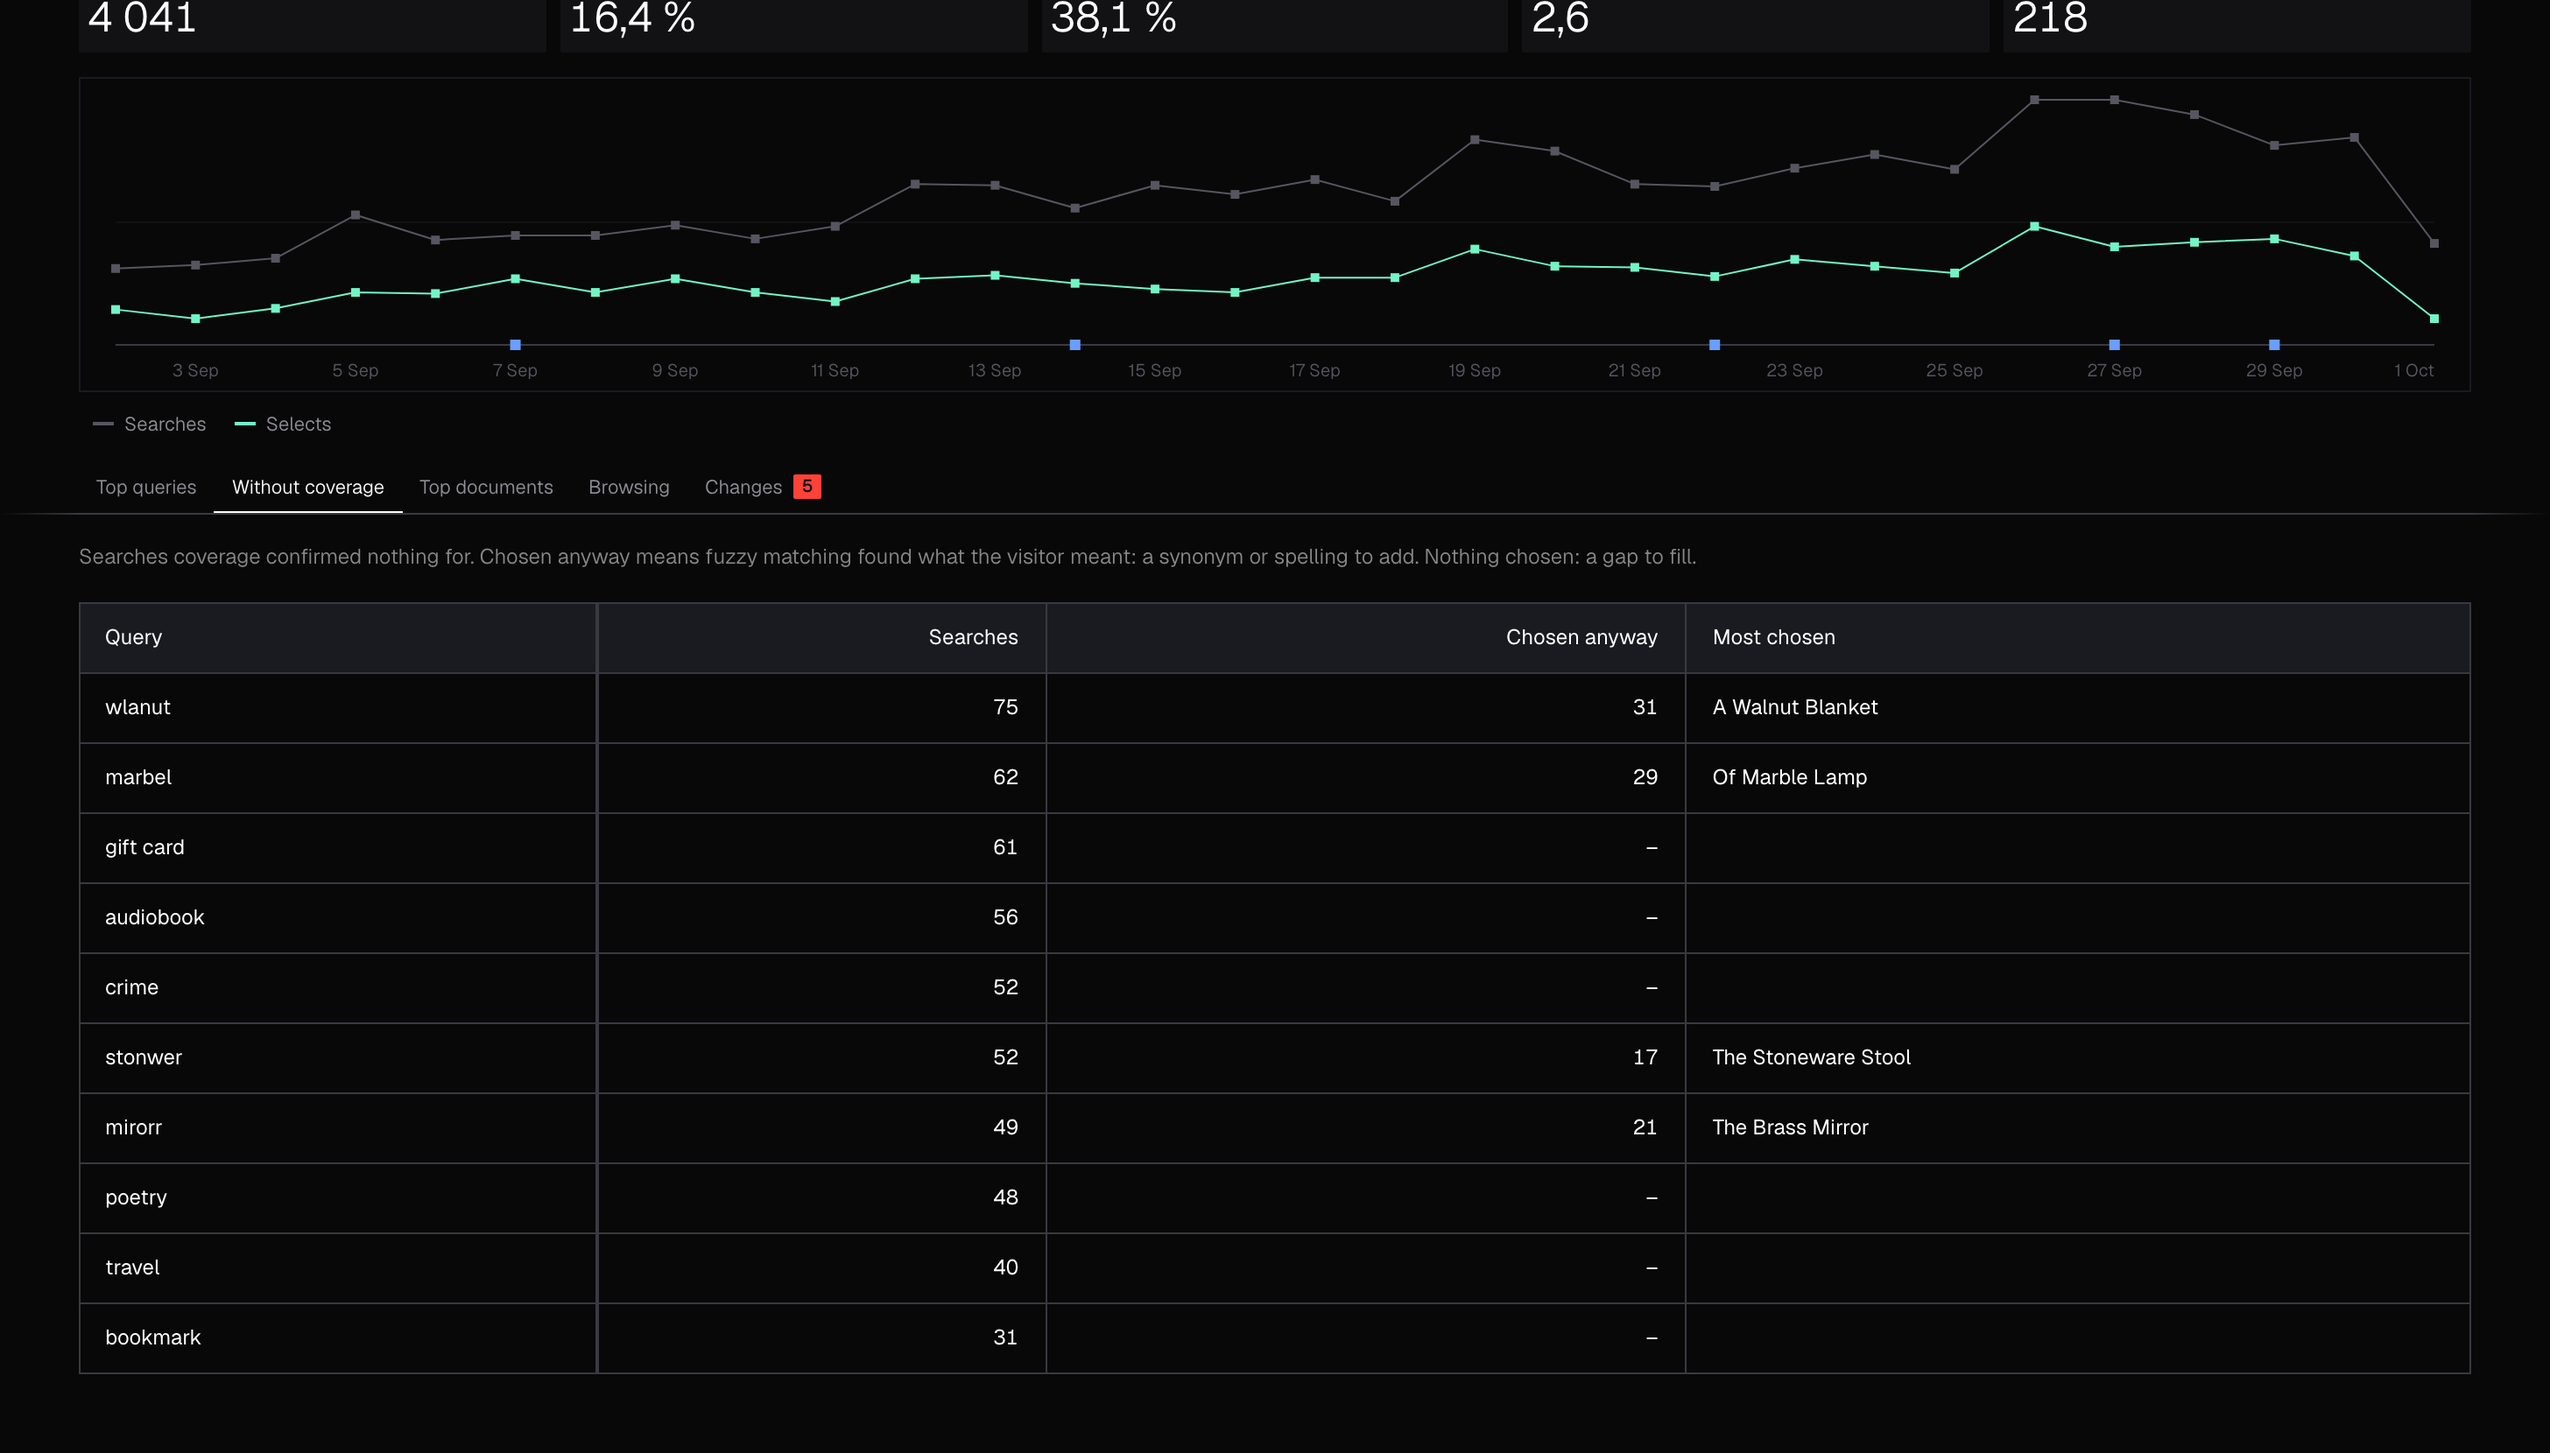
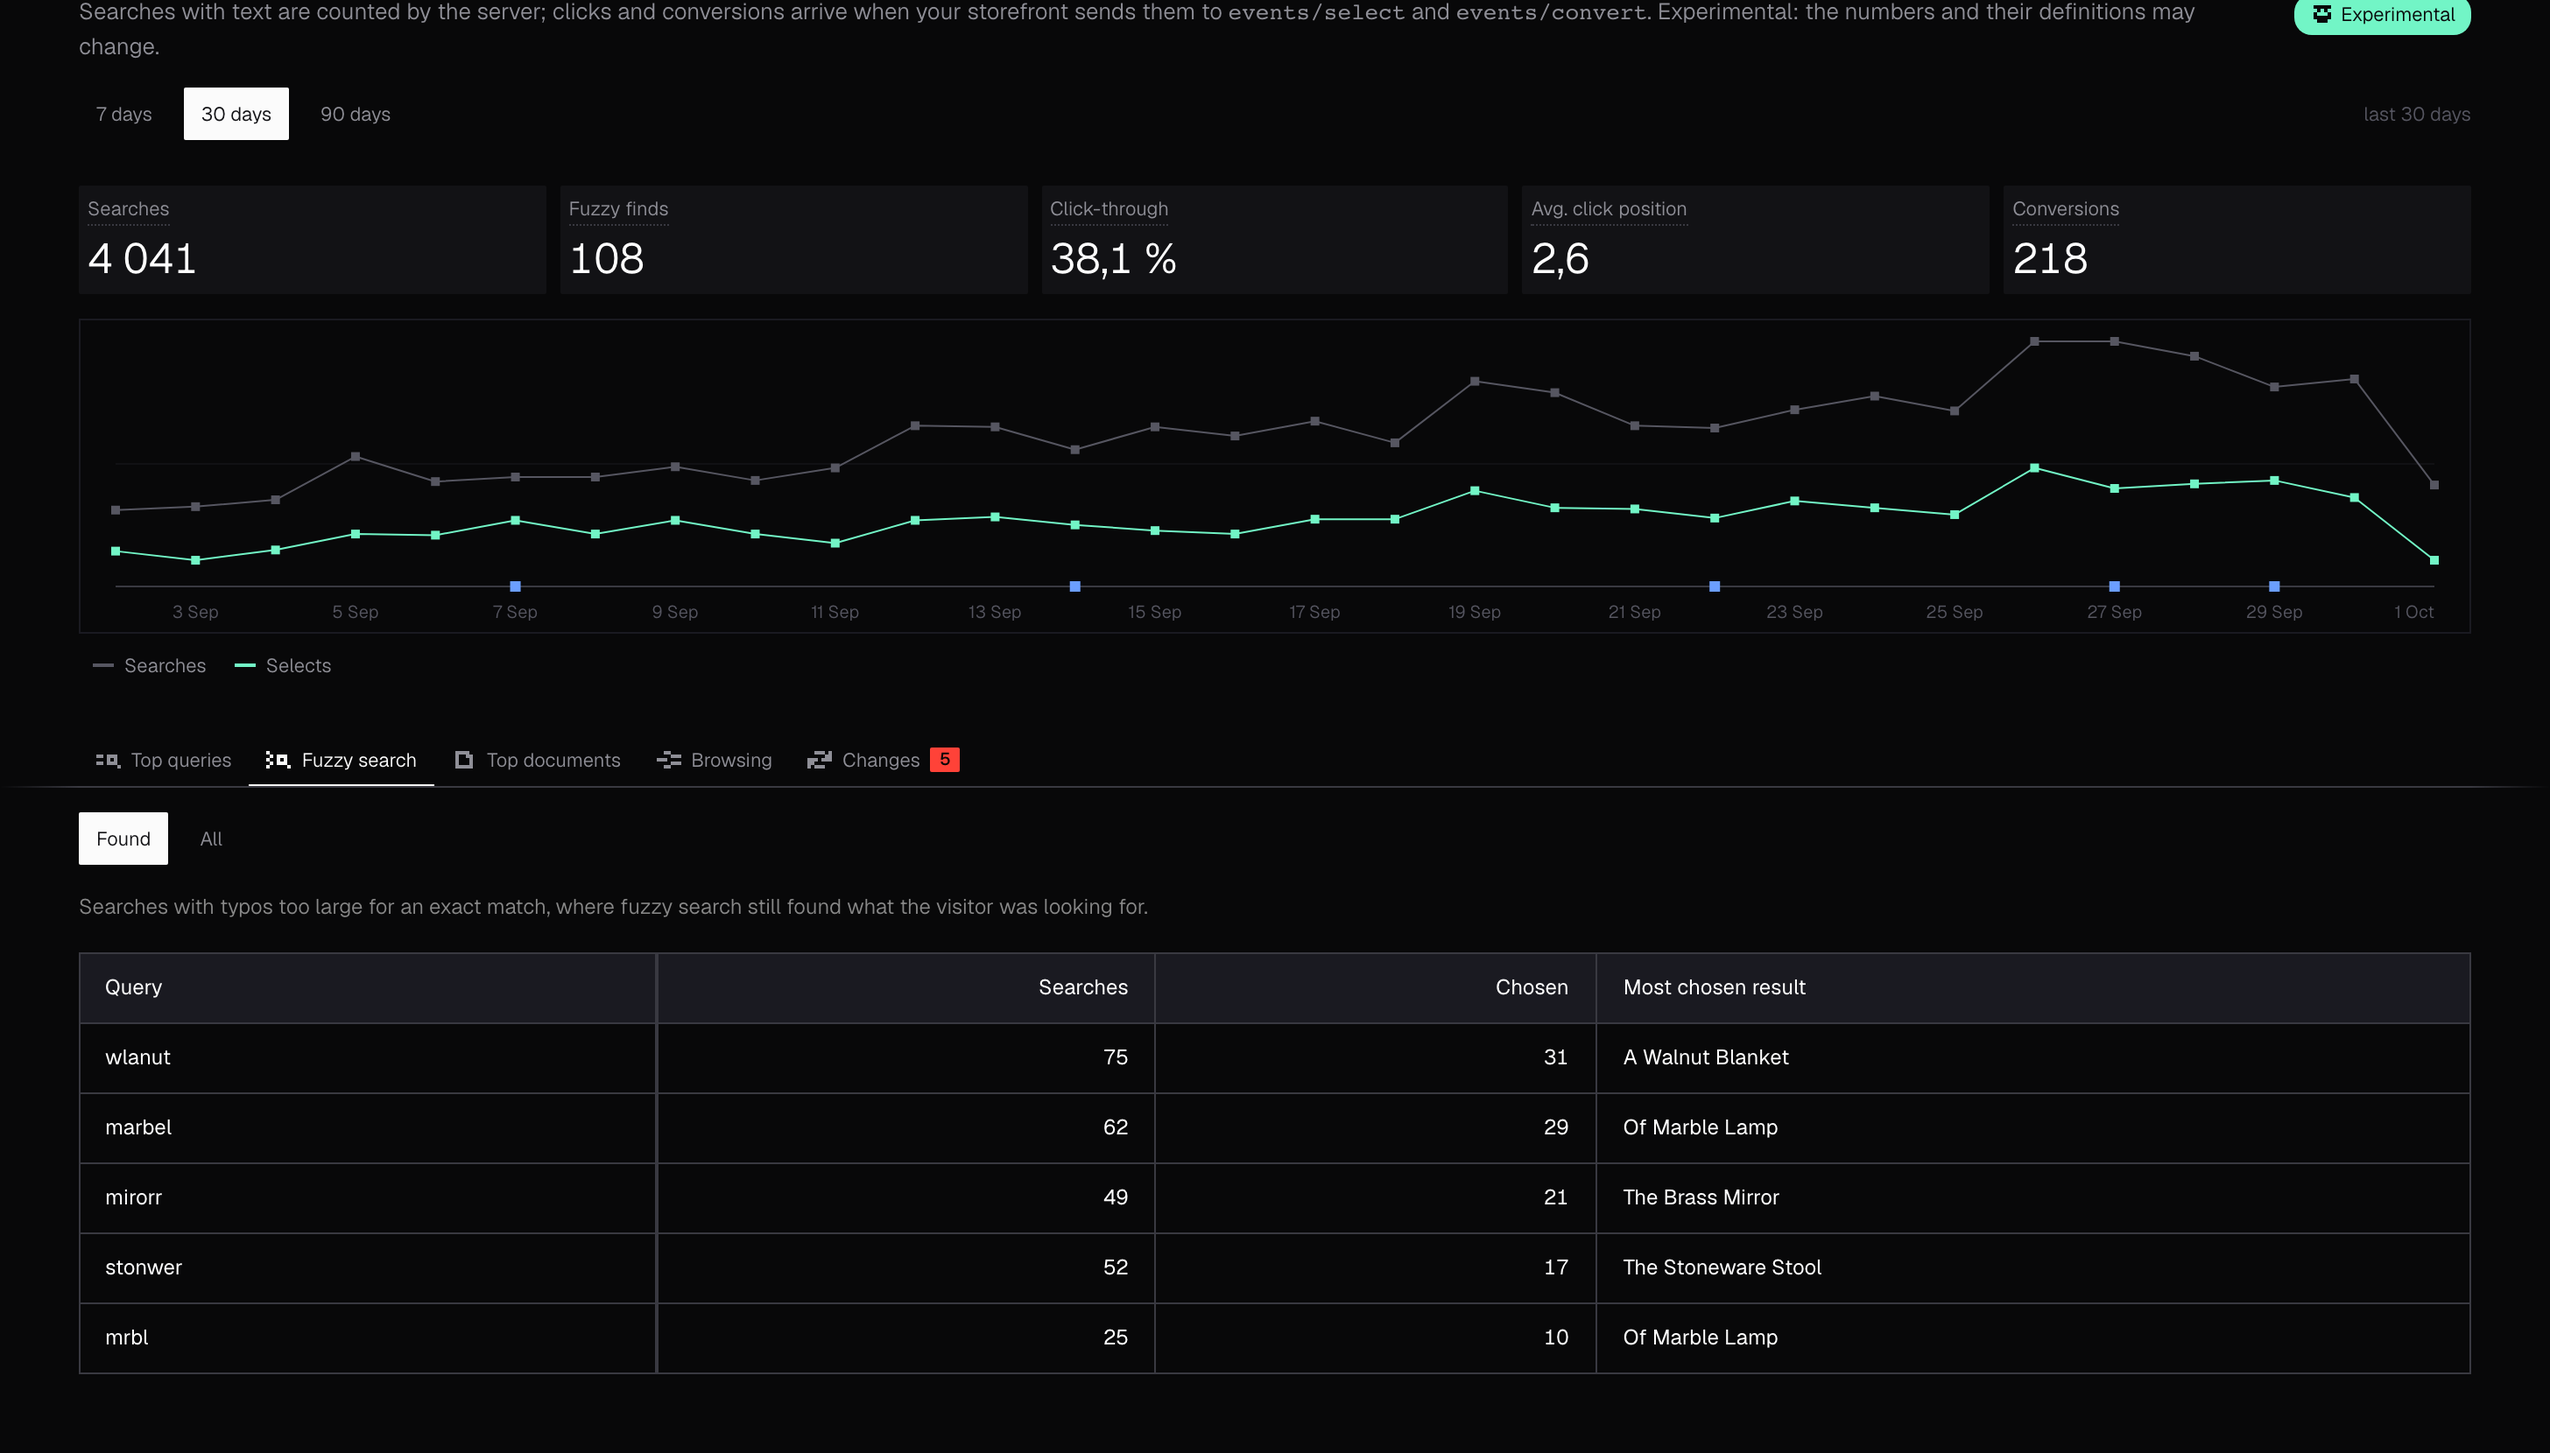
docs: Fuzzy search and the section view settings; screenshots retaken

diff --git a/README.md b/README.md
@@ -210,26 +210,27 @@ testing in the console's search preview. Your storefront adds the two things the
 see, which result the visitor chose and whether it led to an order. Each dataset's **Statistics**
 tab shows the result for the last 7, 30 or 90 days.
 
-![The statistics tab for a bookshop: five tiles for searches, searches without coverage,
-click-through, average click position and conversions, a month of searches and clicks per day
+![The statistics tab for a bookshop: five tiles for searches, fuzzy finds, click-through,
+average click position and conversions, a month of searches and clicks per day
 with changes marked, and the top queries](docs/images/console-statistics.png)
 
-Below the chart, one section at a time:
+Below the chart, one section at a time, each with its own view settings:
 
 - **Top queries** gives each query its click-through and the average position of the result
-  people chose. A low position means the right document was found and ranked too low.
-- **Without coverage** lists the searches coverage confirmed nothing for. Indx nearly always
-  shows something, so this is the "found nothing" that matters. Where a result was chosen anyway,
-  fuzzy matching rescued a misspelling, and the most chosen document shows what was meant: add
-  the synonym. Where nothing was chosen, the catalogue has a gap.
-- **Top documents** lists what gets chosen and what converts.
+  people chose. A low position means the right document was found and ranked too low. Order by
+  searches or by click-through, and show 10, 25 or 50.
+- **Fuzzy search** shows what Indx found for searches with typos too large for an exact match:
+  how often the visitor still chose a result, and which one. **All** adds the misspelled searches
+  nothing was chosen from.
+- **Top documents** lists what gets chosen, or what converts.
 - **Browsing** lists what people narrowed the catalogue by, filter value by filter value, with or
   without typing. On a dataset of people, where a filter can hold a name, switch it off on the
   **Options** tab.
-- **Changes** lists what was changed on the dataset itself.
+- **Changes** lists what was changed on the dataset itself. Pick a kind of change, and the chart
+  marks only those.
 
-![The Without coverage section: misspelled searches coverage could not confirm, how often a result
-was chosen anyway, and the document chosen most](docs/images/console-statistics-coverage.png)
+![The Fuzzy search section: misspelled searches, how often a result was chosen anyway, and the
+result chosen most](docs/images/console-statistics-coverage.png)
 
 Every dataset card on the team page also draws the last two weeks of searches, so a dataset
 nobody uses any more is visible at a glance.

diff --git a/docs/images/README.md b/docs/images/README.md
@@ -12,7 +12,7 @@ the repository root, or `../images/<name>.png` from inside `docs/release-notes/`
 | `console-boost-rules.png` | Boost rules on `bookshop`: four rules, one scheduled, one switched off |
 | `console-synonyms.png` | The synonym list on `bookshop`: two-way entries and one one-way |
 | `console-statistics.png` | The Statistics tab on `bookshop`: a month of searches, clicks and orders, the changes made to the dataset marked under the chart and listed below it. Seeded by `seed.mjs traffic` and `history` |
-| `console-statistics-coverage.png` | The same tab's Without coverage section: misspellings coverage confirmed nothing for, with what visitors chose anyway beside the ones fuzzy matching rescued |
+| `console-statistics-coverage.png` | The same tab's Fuzzy search section: misspelled searches, how often a result was chosen anyway, and the result chosen most |
 | `admin-users.png` | Admin → Users: accounts and platform roles. Not in the root README — six images is already a lot for one page; this one is here for release notes |
 | `admin-teams.png` | Admin → Teams: both teams with their members and team roles |
 | `admin-datasets.png` | Admin → Datasets: every dataset across every team, with keep-alive |
